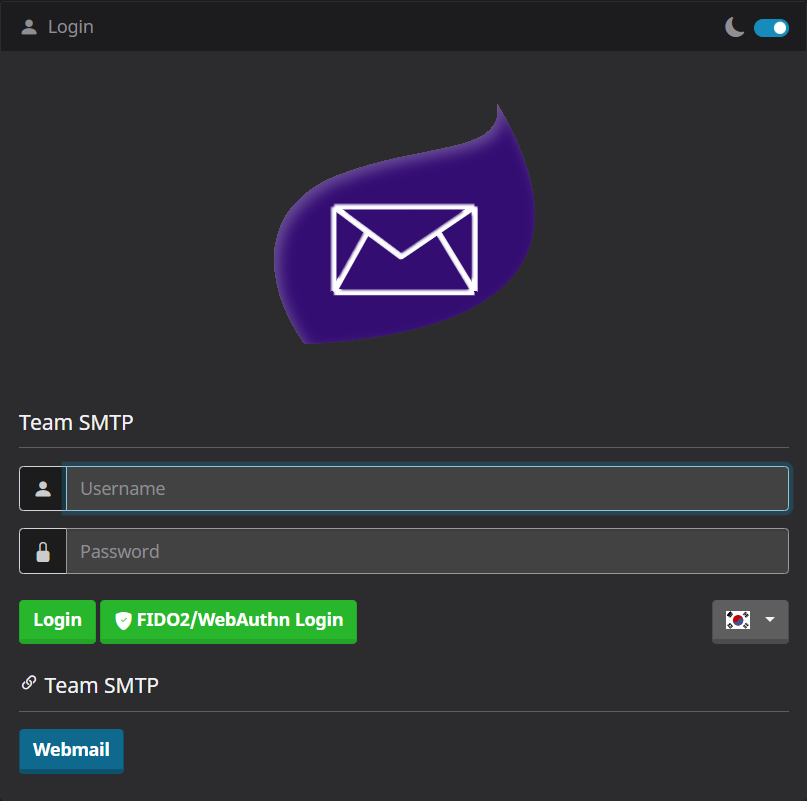
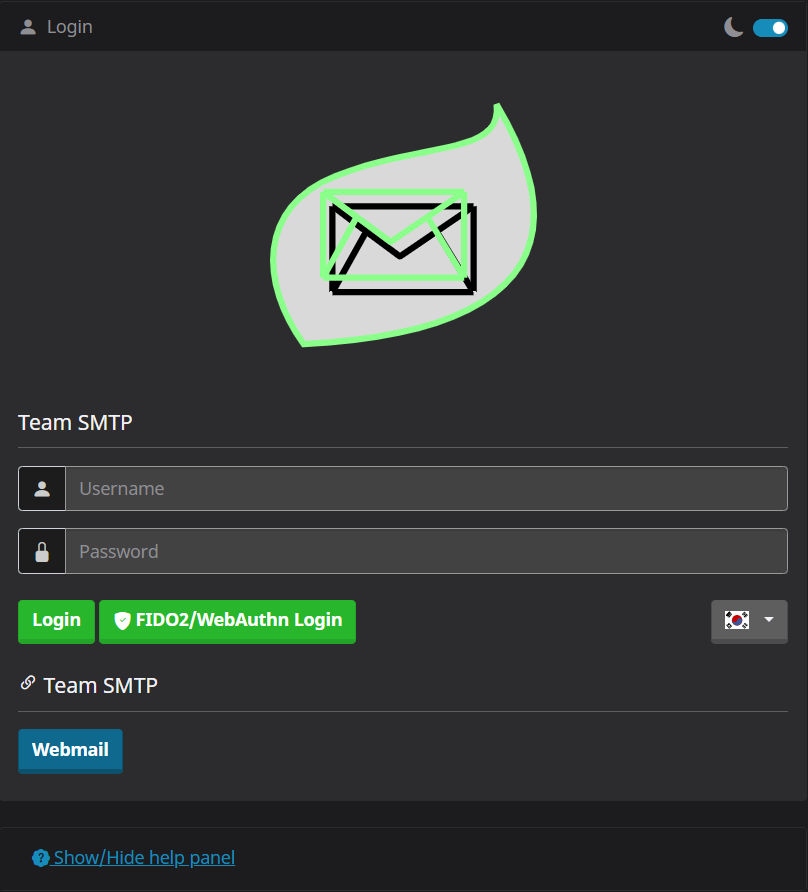
아이콘 업데이트

diff --git a/project/forest-full/index.html b/project/forest-full/index.html
@@ -1,0 +1,1 @@
+empty
